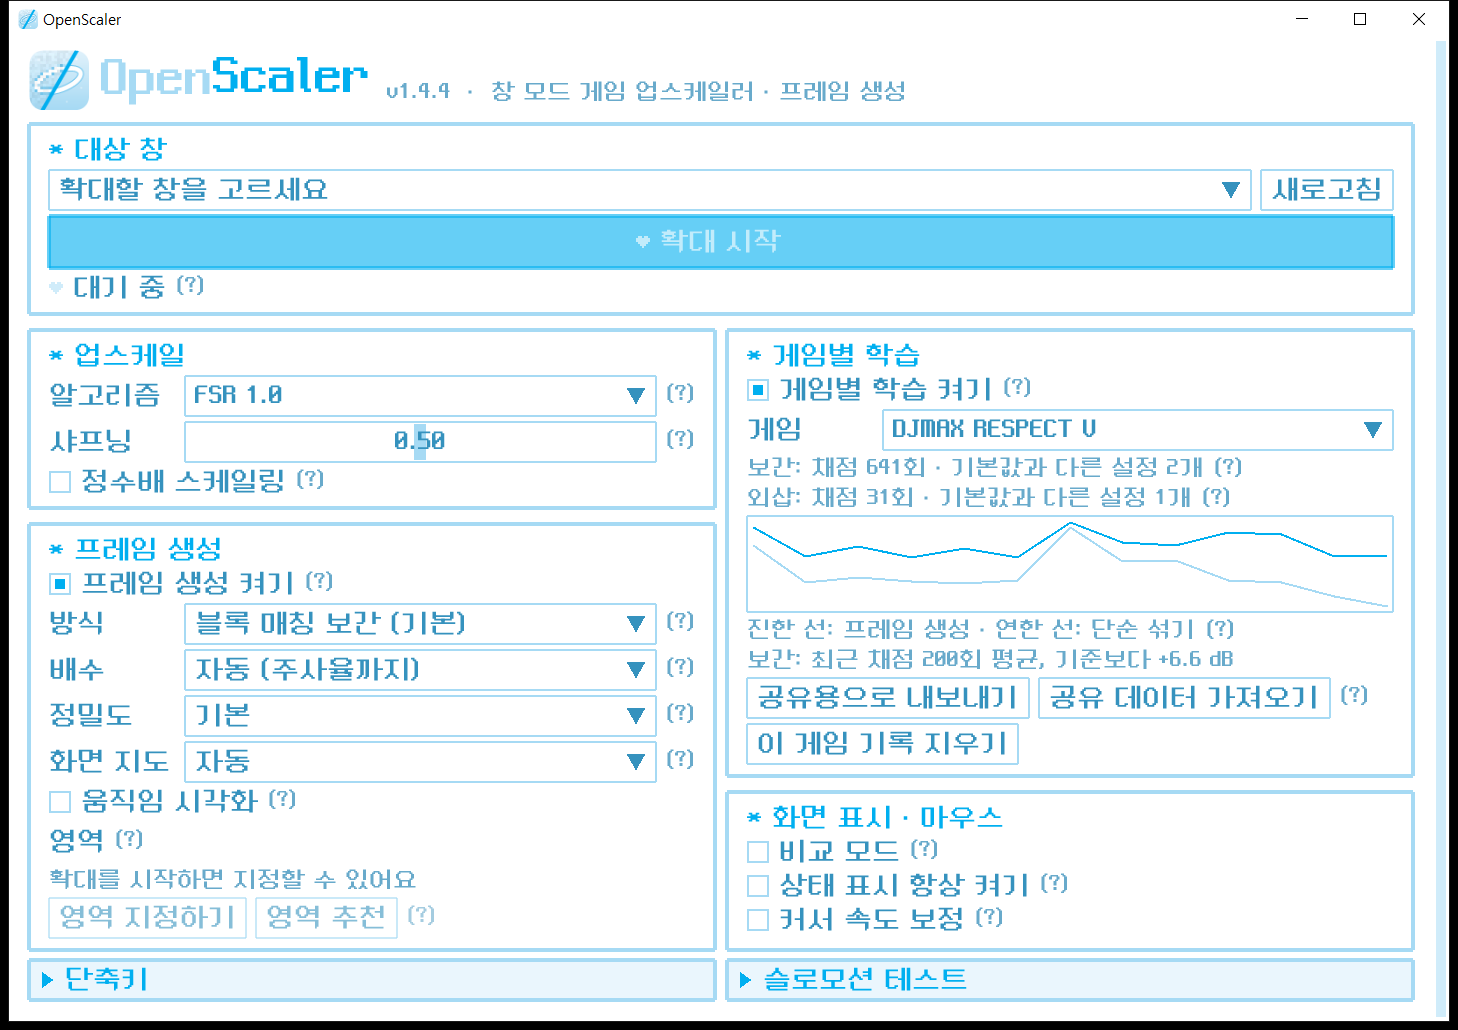
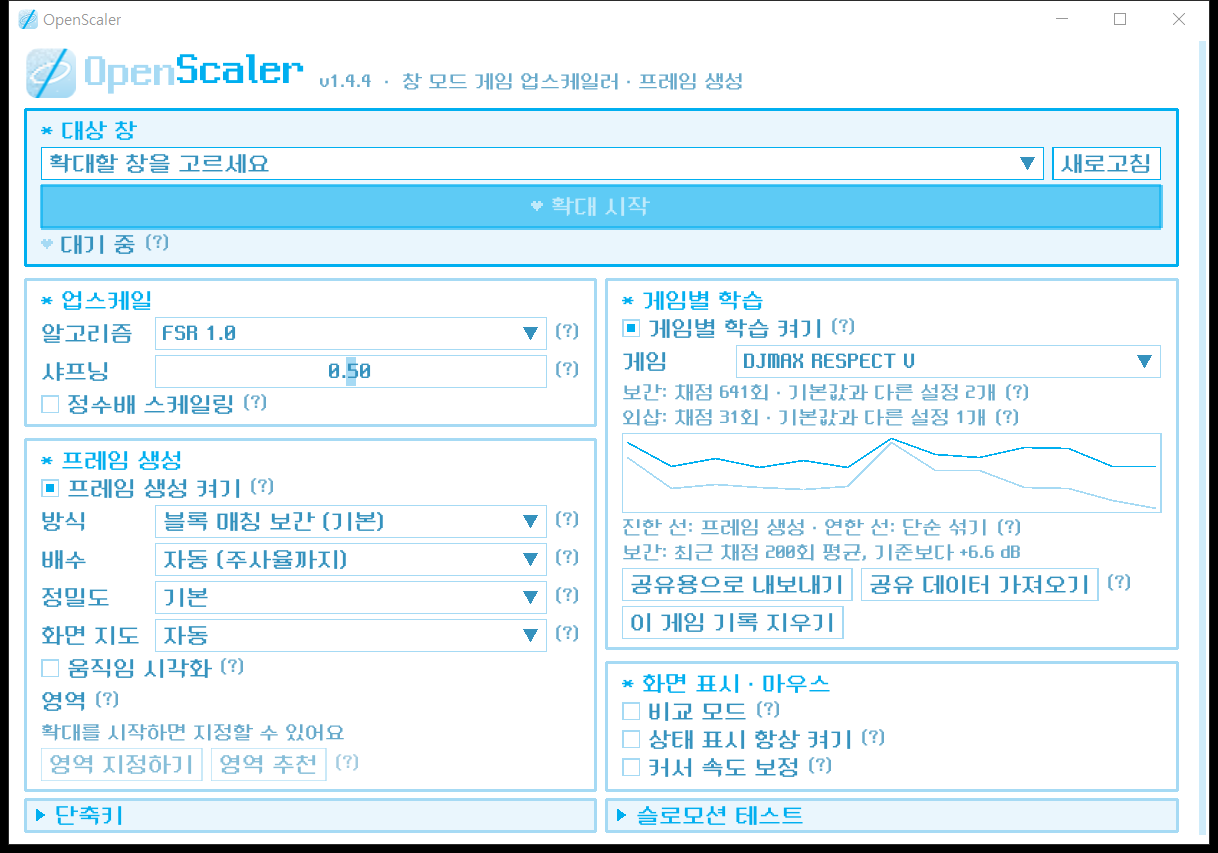
Size the settings window like GitHub Desktop and highlight the target box
- Scale the pixel unit with Windows scaling (4/3 at 100%) so the
  window is about 974x682 at 100%, keeping the same layout.
- Give the target window box a pale sky background and a deep sky
  border.

Changed region(s): [[0.0, 0.0, 0.9984, 1.0], [0.9048, 0.0, 0.936, 0.0305]]

diff --git a/src/gui.cpp b/src/gui.cpp
@@ -2,7 +2,8 @@
 //
 // Dear ImGui로 대상 창 선택, 시작/중지, 업스케일 설정, 상태를 한 화면에 보여 준다.
 // 디자인: 흰 바탕 + 하늘색 픽셀 스타일 (두꺼운 테두리, 각진 모서리, 픽셀 글꼴 Neo둥근모 Pro).
-// 픽셀 글꼴은 16px 기준이다. 사용자 요청으로 본문은 14px x P, 덜 중요한 글은 12px x P로 조금 작게 그린다 (P는 보통 2).
+// 픽셀 글꼴은 16px 기준이다. 사용자 요청으로 본문은 14px x P, 덜 중요한 글은 12px x P로 조금 작게 그린다.
+// P는 Windows 배율에 비례한다 (100%에서 4/3). 창 크기는 사용자가 정한 대로 100%에서 GitHub Desktop 창(약 960 x 660)쯤이다.
 // 캡처/렌더링과 같은 D3D11 디바이스를 쓰고, 메인 루프(main.cpp)에서 매 반복마다 GuiRender를 부른다.
 
 #include "gui.h"
@@ -42,7 +43,7 @@ bool g_open = false;
 bool g_minimized = false;
 float g_dpiScale = 1.0f;   // Windows 배율 (125% = 1.25)
 float g_pendingDpi = 0;    // 배율이 다른 모니터로 옮겨지면 다음 프레임에 글꼴과 크기를 다시 만든다
-int P = 2;                 // 픽셀 하나의 크기 (본문 글꼴 14px x P)
+float P = 2.0f;            // 픽셀 하나의 크기 (본문 글꼴 14px x P). 배율에 비례하는 실수
 Clock::time_point g_lastRender;
 
 ImFont* g_fontBody = nullptr;   // 본문, 옵션 이름, 버튼 (Neo둥근모 Pro 14px x P)
@@ -95,6 +96,8 @@ struct Palette {
     ImVec4 fillActive;
 };
 const Palette kSkyPalette = { kSky, kSkyDeep, kSkyText, kSkySoft, kSkyHover, kSkyMid, kSky, kSkyDeep };
+// 대상 창(시작하는 곳): 진한 하늘색 테두리에 옅은 하늘색 바탕. 바탕과 겹치지 않게 마우스를 올린 색은 한 단계 진하게.
+const Palette kTargetPalette = { kSkyDeep, kSkyDeep, kSkyText, kSkySoft, kSkyMid, kSkyMid, kSky, kSkyDeep };
 const Palette* g_pal = &kSkyPalette;
 
 // 지금부터 그리는 위젯에 색 묶음을 적용한다 (PopPalette로 되돌린다)
@@ -423,8 +426,8 @@ void SetupStyle()
     c[ImGuiCol_NavHighlight] = kSkyDeep;
 }
 
-// Windows 배율에 맞는 픽셀 크기: 100%~150%는 2배, 175% 이상은 3배
-int PixelScaleFor(float dpiScale) { return std::max(1, (int)std::lround(dpiScale * 1.6f)); }
+// Windows 배율에 맞는 픽셀 크기: 100%에서 4/3, 125%에서 5/3, 150%에서 2
+float PixelScaleFor(float dpiScale) { return dpiScale * 4.0f / 3.0f; }
 
 // 배율에 맞춰 픽셀 크기, 스타일, 글꼴, 로고를 다시 만든다.
 void ApplyScale(float dpiScale)
@@ -433,7 +436,7 @@ void ApplyScale(float dpiScale)
     P = PixelScaleFor(dpiScale);
     SetupStyle();
     SetupFonts();
-    LoadLogo(30 * P);
+    LoadLogo((int)std::lround(30 * P));
 }
 
 // ---------------------------------------------------------------------------
@@ -472,12 +475,12 @@ LRESULT CALLBACK WndProc(HWND hwnd, UINT msg, WPARAM wp, LPARAM lp)
     case WM_DPICHANGED: {
         // 픽셀 크기 P가 그대로면(예: 125% -> 100%) 창 크기도 그대로 두고 위치만 옮긴다.
         g_pendingDpi = HIWORD(wp) / 96.0f;
-        int newP = PixelScaleFor(g_pendingDpi);
+        const float newP = PixelScaleFor(g_pendingDpi);
         auto rc = reinterpret_cast<RECT*>(lp);
         RECT cur;
         GetWindowRect(hwnd, &cur);
-        int w = (cur.right - cur.left) * newP / P;
-        int h = (cur.bottom - cur.top) * newP / P;
+        int w = (int)std::lround((cur.right - cur.left) * newP / P);
+        int h = (int)std::lround((cur.bottom - cur.top) * newP / P);
         SetWindowPos(hwnd, nullptr, rc->left, rc->top, w, h, SWP_NOZORDER | SWP_NOACTIVATE);
         return 0;
     }
@@ -516,6 +519,16 @@ void HelpMarker(const char* text);
 float g_nextBoxMinHeight = 0;
 struct BoxFit { float top = 0, natural = 0, bottom = 0; };
 BoxFit g_lastBox;
+
+// 대상 창 상자: 옅은 하늘색 바탕과 진한 하늘색 테두리(굵기는 다른 구역과 같음)로 눈에 띄게 한다.
+// 안의 목록 칸과 버튼은 흰 바탕 그대로 두어 바탕에 묻히지 않게 한다.
+void BeginBox(const char* id, const char* title, const Palette& palette, const char* help);
+void BeginTargetBox(const char* id, const char* title)
+{
+    ImGui::PushStyleColor(ImGuiCol_ChildBg, kSkyHover);
+    BeginBox(id, title, kTargetPalette, nullptr);
+    ImGui::PopStyleColor();
+}
 
 // help가 있으면 제목 옆에 (?)를 붙인다.
 void BeginBox(const char* id, const char* title, const Palette& palette, const char* help = nullptr)
@@ -1147,7 +1160,7 @@ void DrawUi()
     ImGui::Dummy(ImVec2(0, 1 * u));
 
     // 대상 창과 시작/중지
-    BeginBox("##target", "대상 창", kSkyPalette);
+    BeginTargetBox("##target", "대상 창");
     {
         const char* refreshLabel = "새로고침";
         float refreshWidth = ImGui::CalcTextSize(refreshLabel).x + ImGui::GetStyle().FramePadding.x * 2;
@@ -1183,7 +1196,7 @@ void DrawUi()
         ImVec2 p = ImGui::GetCursorScreenPos();
         float lineH = ImGui::GetTextLineHeight();
         DrawHeart(ImGui::GetWindowDrawList(), ImVec2(p.x, std::floor(p.y + (lineH - 6 * u) * 0.5f)),
-                  Col(status.active ? kSkyDeep : kSkyMid));
+                  Col(status.active ? kSkyDeep : kSky));
         ImGui::Dummy(ImVec2(7 * u, lineH));
         ImGui::SameLine();
         if (status.active) {
@@ -1377,7 +1390,7 @@ void DrawOverlayUi(bool& keepOpen)
     ImGui::Dummy(ImVec2(0, 2 * u));
 
     // 확대 상태와 중지
-    BeginBox("##ovtarget", "확대 중", kSkyPalette);
+    BeginTargetBox("##ovtarget", "확대 중");
     if (status.active) {
         ImGui::Text("%u×%u > %u×%u", status.srcW, status.srcH, status.dstW, status.dstH);
         char fps[64];
@@ -1422,11 +1435,11 @@ bool GuiCreate(ID3D11Device* device, ID3D11DeviceContext* context)
                              100, 100, nullptr, nullptr, inst, nullptr);
     if (!g_hwnd) return false;
 
-    // 창 크기: 픽셀 단위 720 x 495 (배율 P를 곱한다). 대상 창 아래를 두 열로 나눈다.
+    // 창 크기: 픽셀 단위 720 x 484 (배율 P를 곱한다, 100%에서 960 x 645). 대상 창 아래를 두 열로 나눈다.
     UINT dpi = GetDpiForWindow(g_hwnd);
     g_dpiScale = dpi / 96.0f;
     P = PixelScaleFor(g_dpiScale);
-    RECT rc = { 0, 0, (LONG)(720 * P), (LONG)(495 * P) };
+    RECT rc = { 0, 0, (LONG)(720 * P), (LONG)(484 * P) };
     AdjustWindowRectExForDpi(&rc, WS_OVERLAPPEDWINDOW, FALSE, 0, dpi);
 
     // 작업 표시줄을 뺀 화면 가운데에 놓고, 화면보다 크면 높이를 줄인다 (넘치는 내용은 스크롤)
@@ -1542,7 +1555,7 @@ int GuiOverlayRender(ID3D11Device* device, ID3D11DeviceContext* context, ID3D11R
             // 설정 창 없이 실행했으면 (--no-gui) 글꼴을 여기서 만든다.
             g_device = device;
             g_ctx = context;
-            P = 2;
+            P = PixelScaleFor(GetDpiForSystem() / 96.0f);
             SetupFonts();
         }
         SetupStyle();

diff --git a/CLAUDE.md b/CLAUDE.md
@@ -75,9 +75,10 @@ Alt+Shift + S(시작/중지), M(모드), I(정수배), Up/Down(샤프닝), C(비
 ## 설정 창 디자인 (사용자 지정)
 
 - 흰 바탕, 각진 모서리, 두꺼운 픽셀 테두리, 언더테일 느낌. 구역 제목은 `* `로 시작하고 픽셀 하트를 쓴다.
-- 색은 하늘색 두 가지 (2026-11-24 사용자 지정): 연한 하늘색 `#A6DAF4`는 모든 구역 테두리, 진한 하늘색 `#00AFF0`은 제목과 주요 버튼 같은 중요한 글. 본문과 설명은 이 두 색에서 만든 조금 어두운 하늘색(`kSkyText`, `kSkySoft`)으로 읽히게 한다. 모든 구역이 같은 색 묶음(`kSkyPalette`)이다.
+- 색은 하늘색 두 가지 (2026-11-24 사용자 지정): 연한 하늘색 `#A6DAF4`는 모든 구역 테두리, 진한 하늘색 `#00AFF0`은 제목과 주요 버튼 같은 중요한 글. 본문과 설명은 이 두 색에서 만든 조금 어두운 하늘색(`kSkyText`, `kSkySoft`)으로 읽히게 한다. 대상 창(확대 화면 위 메뉴의 "확대 중")만 옅은 하늘색 바탕(`#EAF6FD`)과 진한 하늘색 테두리(굵기는 다른 구역과 같음)로 강조하고(`BeginTargetBox`, `kTargetPalette`, 2026-11-24 사용자 선택), 안의 목록 칸과 버튼은 흰 바탕이다. 나머지 구역은 같은 색 묶음(`kSkyPalette`)이다.
 - 제목은 Open 연한 하늘색, Scaler 진한 하늘색.
 - 글꼴은 Neo둥근모 Pro(`third_party/neodgm`, SIL OFL 1.1) 하나. 글꼴은 16px 기준이지만 사용자 요청(2026-11-24)으로 조금 작게 그린다: 본문과 옵션 이름 14px x P, 덜 중요한 글(설명, 상태, (?)와 도움말) 12px x P (`g_fontThin`), 제목 28px x P. 16px의 정수 배가 아니라 획 굵기가 조금 고르지 않은 것은 감수한다.
+- 크기 (2026-11-24 사용자 지정): 창은 100% 배율에서 GitHub Desktop 창(978x668)쯤. 픽셀 단위 P는 Windows 배율에 비례하는 실수다 (`PixelScaleFor`: 100%에서 4/3, 125%에서 5/3). 기본 창은 720 x 484 단위(100%에서 창 974x682).
 - 기능 설명은 화면에 길게 쓰지 않고 (?) 도움말(`HelpMarker`, 구역 제목은 `BeginBox`의 help)로 넣는다. 화면에는 상태(fps, 영역, 녹화 진행 등)만 짧게 둔다.
 - 배치 (2026-11-24 사용자 지정): 머리말(로고, 제목, 버전 한 줄)과 대상 창은 가로 전체, 그 아래 두 열. 왼쪽 열은 업스케일, 프레임 생성, 단축키. 오른쪽 열은 게임별 학습, 화면 표시 · 마우스, 슬로모션 테스트. 단축키와 슬로모션 테스트는 기본으로 접혀 있고 같은 높이에서 시작한다 (`FoldHeader`, 두 줄 표의 둘째 줄). 프레임 생성과 화면 표시 · 마우스는 아랫단을 맞춘다 (짧은 쪽 상자를 지난 프레임에 잰 긴 쪽 아랫단까지 늘림, `BoxFit`). 설정 자동 저장 문구는 쓰지 않는다. 창이 좁으면(560 x P 미만) 한 열로, 확대 화면 위 메뉴도 한 열이다.
 - Neo둥근모 Pro에는 화살표(→←↑↓)와 ♥가 없다. 화면 글에는 `>`나 Up/Down처럼 글꼴에 있는 글자를 쓴다 (하트는 `DrawHeart`로 그린다).

diff --git a/README.md b/README.md
@@ -674,7 +674,7 @@ PR을 열면 GitHub Actions가 파일 형식을 검사합니다. **이미 있는
 
 연한 하늘색(#A6DAF4) 배경 위의 하얀 행성 고리는 OpenScaler의 첫 글자 **O**를, 30도로 기울어진 진한 하늘색(#00AFF0) 선은 업스케일 전후의 경계를 뜻합니다. 선 왼쪽은 노이즈 낀 저해상도 이미지, 오른쪽은 선명한 이미지입니다. 로고와 exe 아이콘은 `tools/make_icon.ps1`로 만듭니다.
 
-설정 창과 확대 화면 위 메뉴의 글꼴은 픽셀 글꼴 [Neo둥근모 Pro](https://neodgm.dalgona.dev/)(SIL OFL 1.1)입니다. 본문은 조금 작게(14px의 정수 배), 설명과 상태처럼 덜 중요한 글은 더 작게(12px의 정수 배) 그립니다. 색은 로고와 같은 두 하늘색으로, 구역 테두리는 연한 하늘색, 제목과 주요 버튼 같은 중요한 글은 진한 하늘색입니다.
+설정 창과 확대 화면 위 메뉴의 글꼴은 픽셀 글꼴 [Neo둥근모 Pro](https://neodgm.dalgona.dev/)(SIL OFL 1.1)입니다. 본문보다 설명과 상태처럼 덜 중요한 글을 더 작게 그리고, 화면 전체의 크기는 Windows 배율에 맞춥니다. 색은 로고와 같은 두 하늘색으로, 구역 테두리는 연한 하늘색, 제목과 주요 버튼 같은 중요한 글은 진한 하늘색입니다.
 
 ---
 
